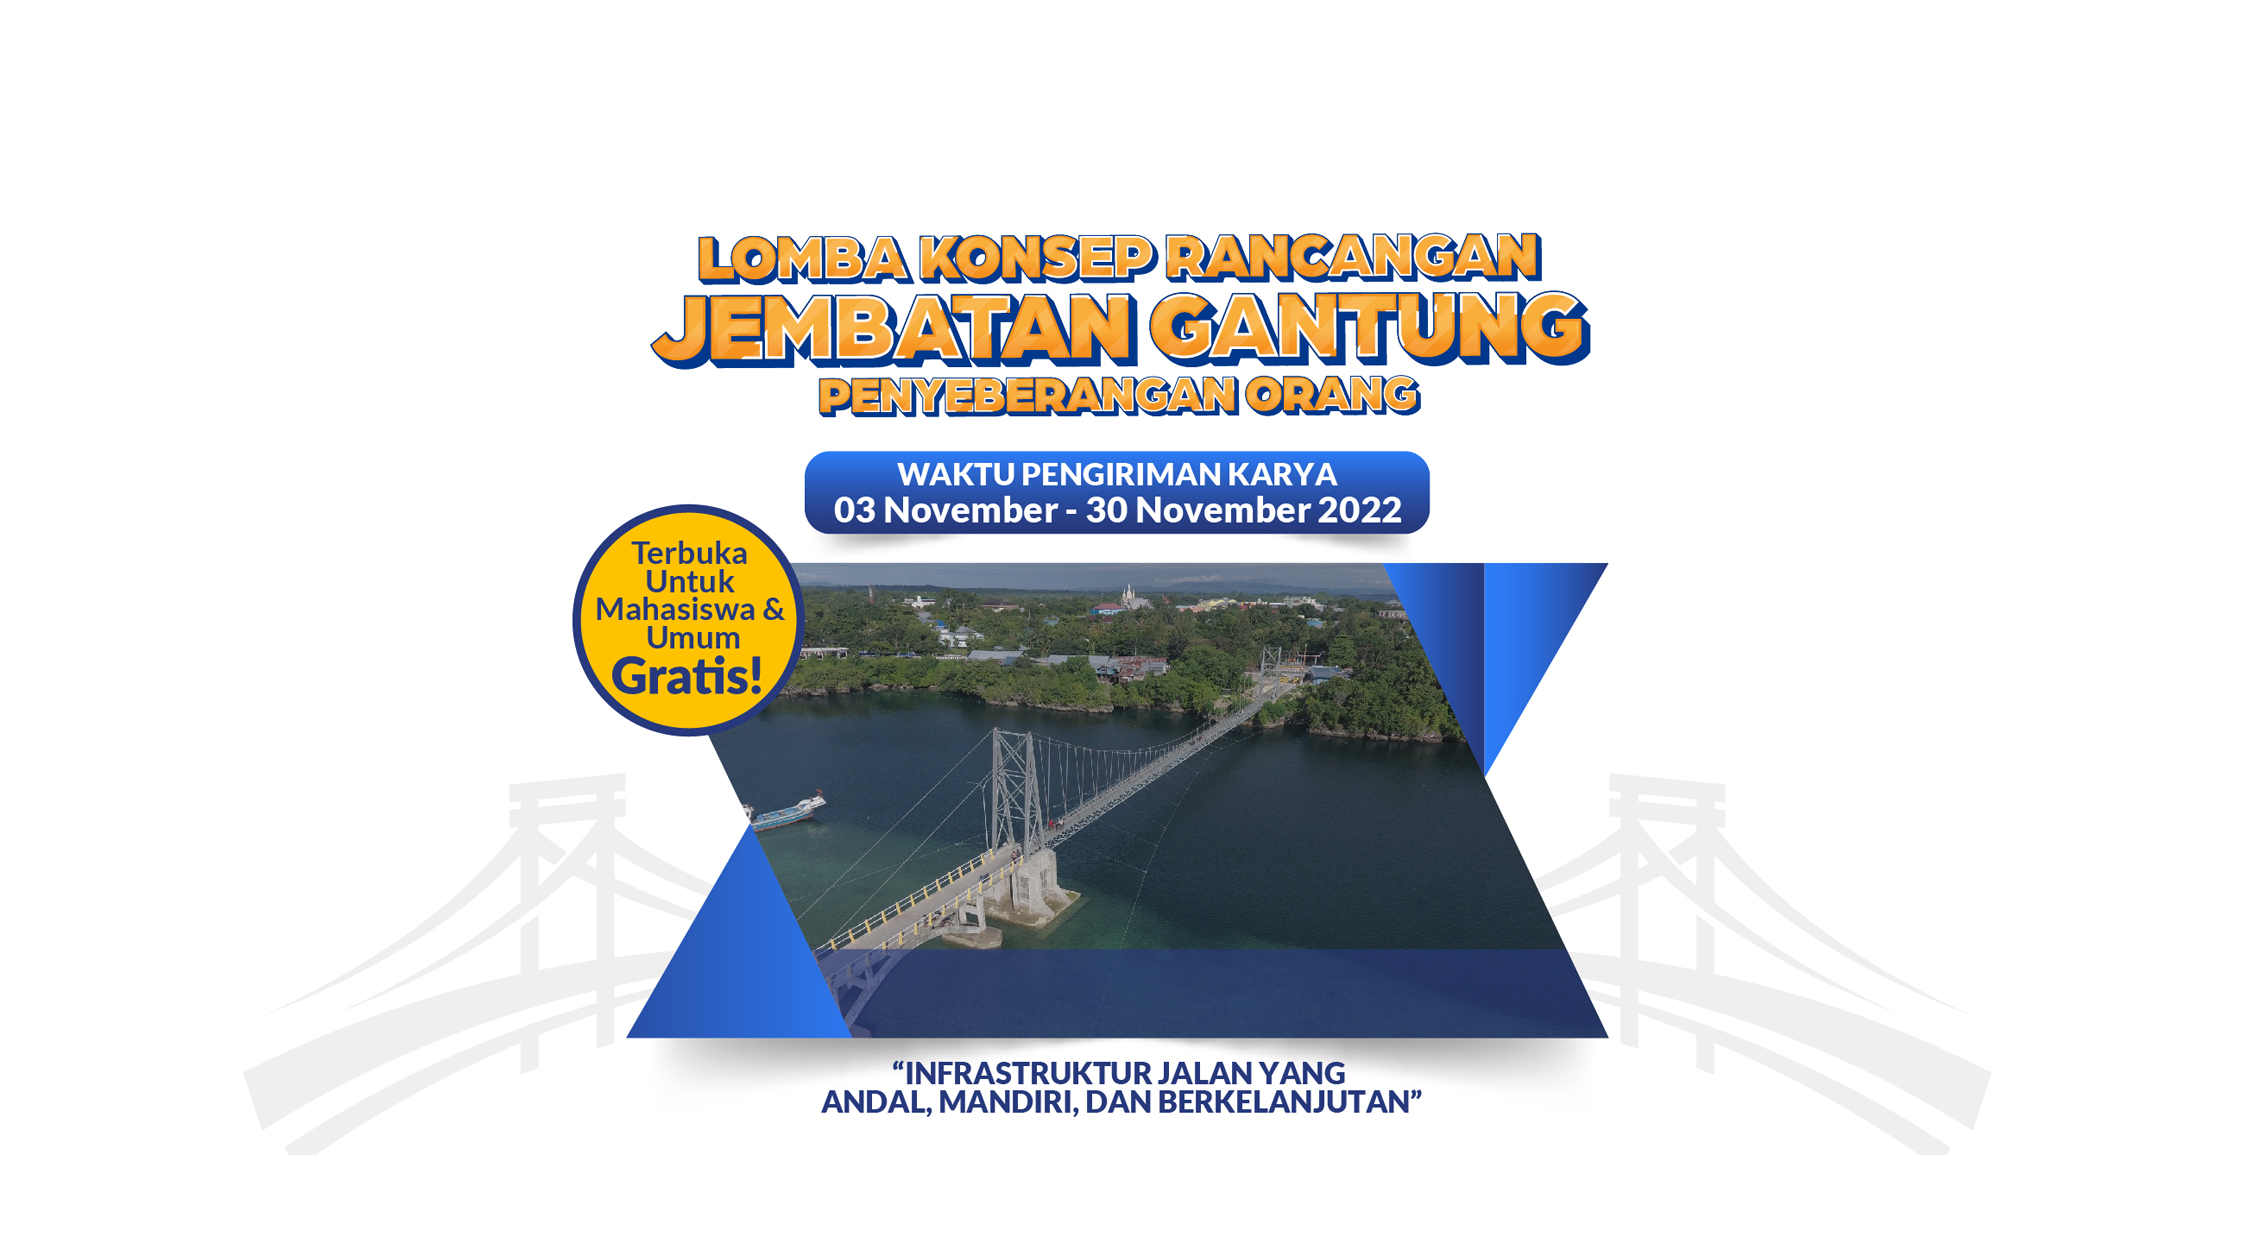
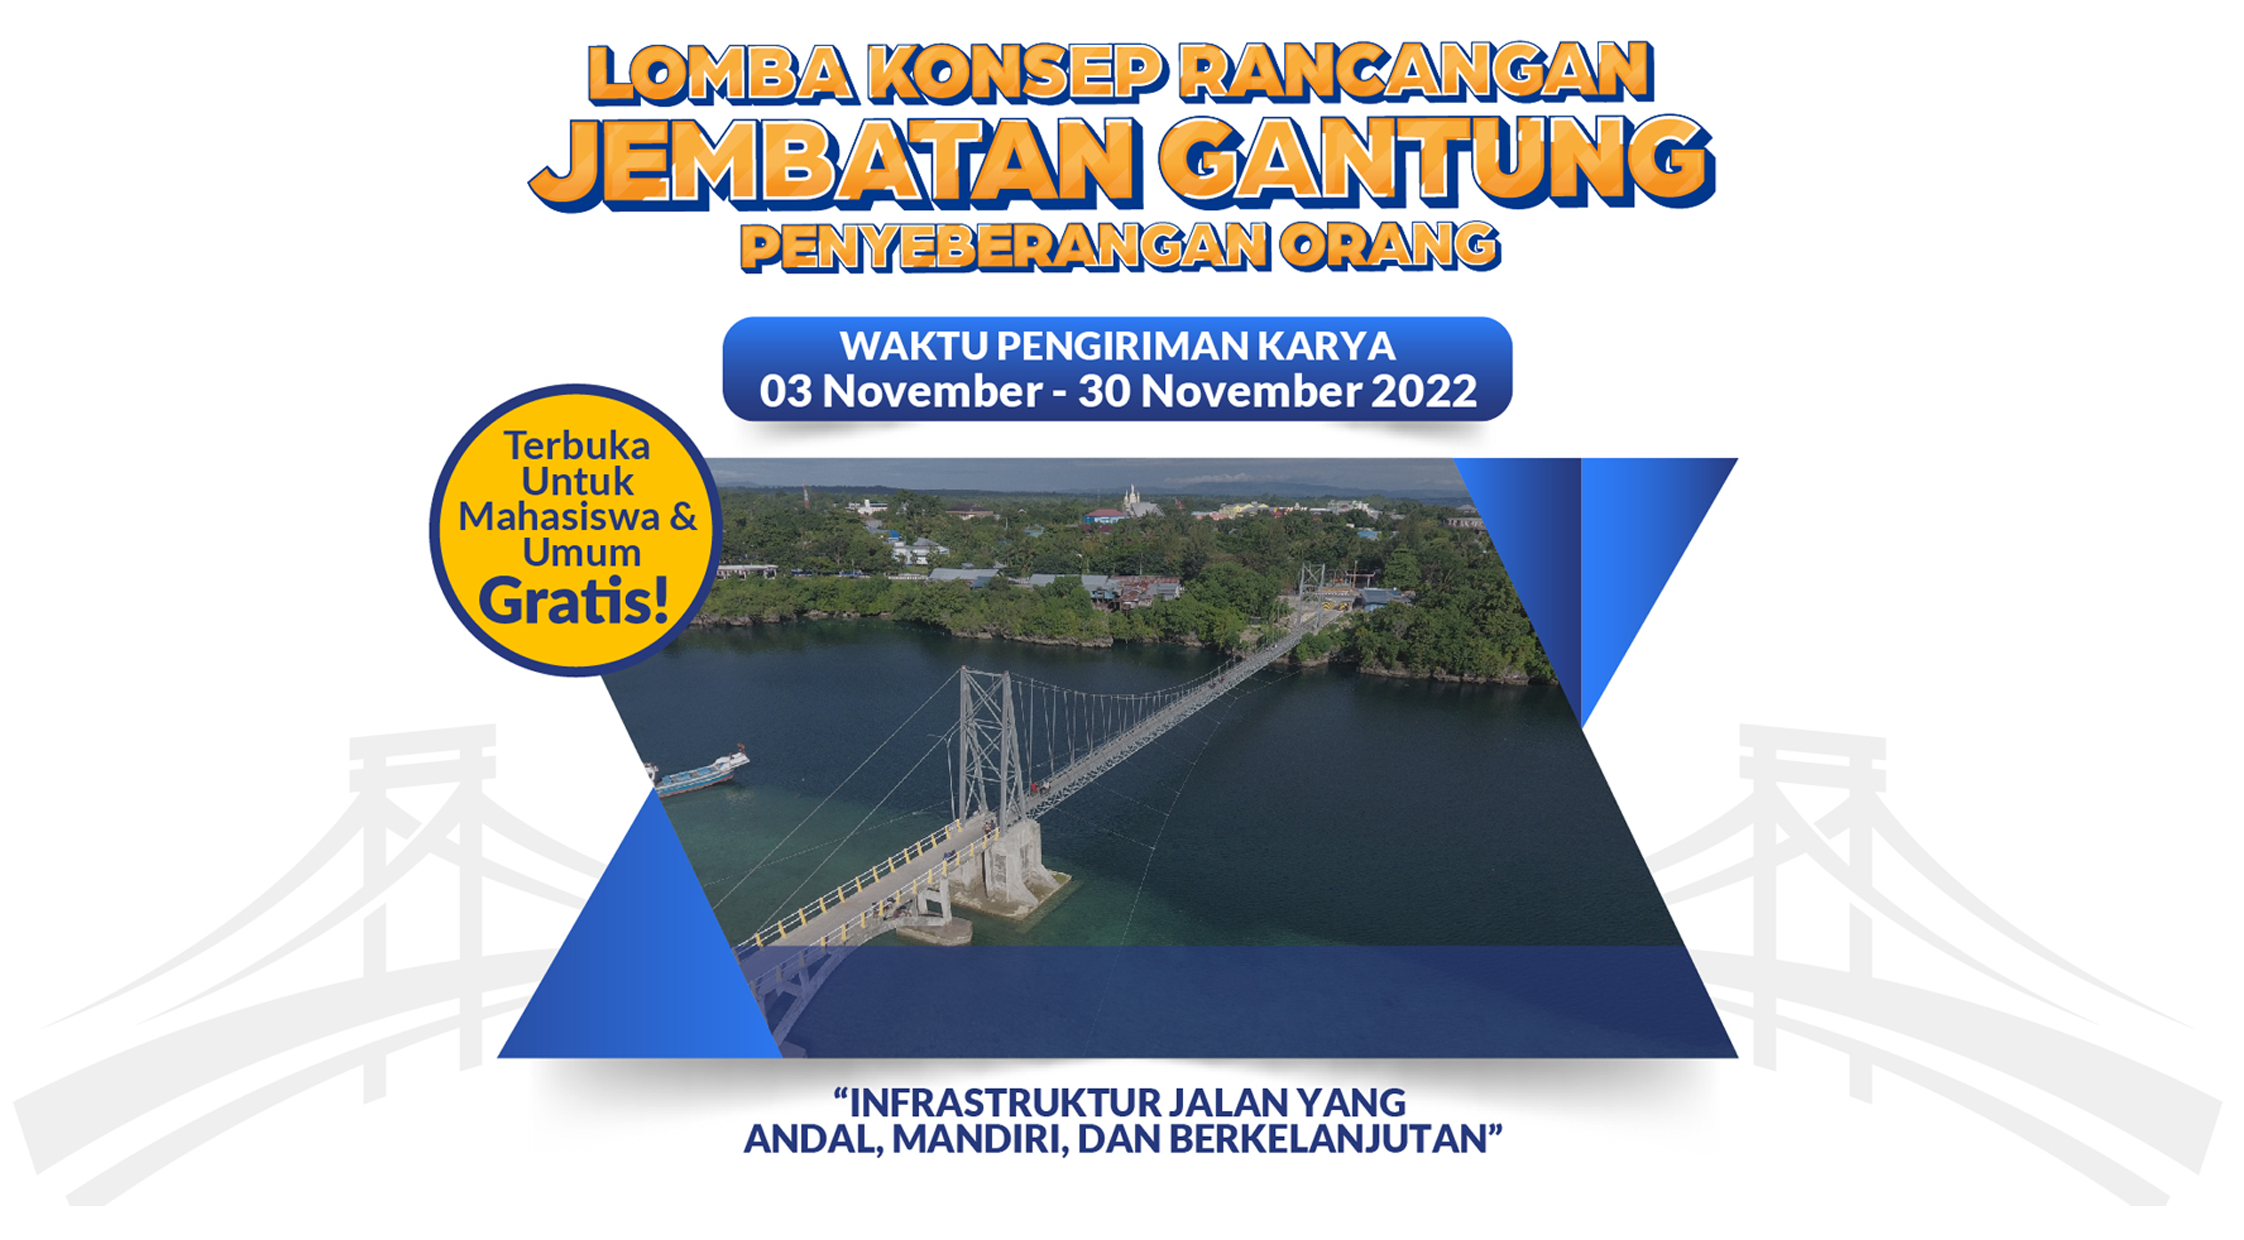
Update bg

Changed region(s): [[0.1872, 0.0306, 0.7799, 0.95]]

diff --git a/assets/home/css/templatemo-style.css b/assets/home/css/templatemo-style.css
@@ -256,14 +256,14 @@ a:focus {
 }
 
 .tm-hero-text-container-inner2 {
-  margin-top: -4em;
-  left: 0em;
+  margin-top: -2em;
+  left: 12em;
   position: absolute;
   z-index: 1;
 
 }
 .tm-hero-text-container-inner2 img {
-    width: 140%;
+    width: 80%;
 }
 .tm-hero-text-container-inner3 {
   margin-top: -6em;
@@ -707,7 +707,7 @@ p {
     }
     
     .tm-hero-text-container-inner2 {
-      margin-top: -15em;
+      margin-top: -8em;
       left: 0em;
       position: absolute;
     }

diff --git a/assets/template/tema/css/style.css b/assets/template/tema/css/style.css
@@ -234,15 +234,8 @@ h6 {
 
 .site-home{
     min-height: 100%;
-    display: -ms-flexbox;
-    display: flex;
-    -ms-flex-direction: column;
-    flex-direction: column;
-    background-color: #490d40;
-  background: url(../../../../assets/home/bg.png) no-repeat center center;
-  background-size: cover;
-  /* height: 700px; */
-  /*margin-top: -20px;*/
+    background: url(../../../../assets/home/bg.png) no-repeat center center;
+    background-size: cover;
 }
 
 .site__header {

diff --git a/application/views/home/beranda.php b/application/views/home/beranda.php
@@ -152,7 +152,7 @@ $iden = $this->db->query("SELECT * FROM tb_web_identitas where id_identitas='1'"
                 </div>
                 <div class="tm-hero-text-container-inner2 ">
                 <!--d-md-block d-none-->
-                    <!-- <img  src="<?= base_url('assets/home/') ?>center2.png" alt=""> -->
+                    <img  src="<?= base_url('assets/home/') ?>center2.png" alt="">
                 </div>    
                 <!-- <div class="tm-hero-text-container-inner4 d-lg-none ">
                     <img  src="<?= base_url('assets/home/') ?>center4.png" alt="">
